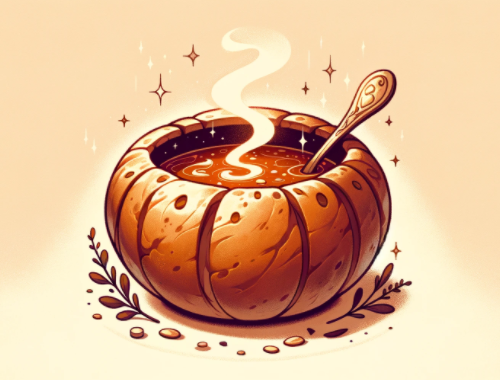
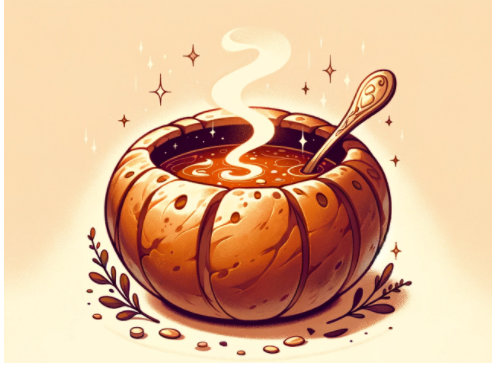
部分资源更新

Changed region(s): [[0.0, 0.0, 1.0, 1.0]]

diff --git a/src/main/java/nearlmod/cards/GumboBreadBowl.java b/src/main/java/nearlmod/cards/GumboBreadBowl.java
@@ -19,7 +19,7 @@ public class GumboBreadBowl extends AbstractNearlCard {
     public static final String NAME = cardStrings.NAME;
     public static final String DESCRIPTION = cardStrings.DESCRIPTION;
     public static final String UPGRADE_DESCRIPTION = cardStrings.UPGRADE_DESCRIPTION;
-    public static final String IMG_PATH = "images/cards/gumbobreadbowl.jpg";
+    public static final String IMG_PATH = "images/cards/gumbobreadbowl.png";
     private static final int COST = 0;
     private static final int BLOCK_AMT = 2;
     private static final int UPGRADE_PLUS_BLOCK = 2;
@@ -41,18 +41,26 @@ public class GumboBreadBowl extends AbstractNearlCard {
         addToBot(new UseLightAction(p));
     }
 
-    @Override
-    public void applyPowers() {
+    private void preUpd() {
         if (!AbstractDungeon.player.stance.ID.equals(DefStance.STANCE_ID)) {
             baseBlock += DefStance.incNum;
             baseBlock += DefStance.defInc;
         }
-        super.applyPowers();
+    }
+
+    private void postUpd() {
         if (!AbstractDungeon.player.stance.ID.equals(DefStance.STANCE_ID)) {
             baseBlock -= DefStance.incNum;
             baseBlock -= DefStance.defInc;
             isBlockModified = (block != baseBlock);
         }
+    }
+
+    @Override
+    public void applyPowers() {
+        preUpd();
+        super.applyPowers();
+        postUpd();
     }
 
     @Override
@@ -62,16 +70,9 @@ public class GumboBreadBowl extends AbstractNearlCard {
 
     @Override
     public void calculateCardDamage(AbstractMonster mo) {
-        if (!AbstractDungeon.player.stance.ID.equals(DefStance.STANCE_ID)) {
-            this.baseBlock += DefStance.incNum;
-            this.baseBlock += DefStance.defInc;
-        }
+        preUpd();
         super.calculateCardDamage(mo);
-        if (!AbstractDungeon.player.stance.ID.equals(DefStance.STANCE_ID)) {
-            this.baseBlock -= DefStance.incNum;
-            this.baseBlock -= DefStance.defInc;
-            isBlockModified = (baseBlock != block);
-        }
+        postUpd();
     }
 
     @Override

diff --git a/src/main/java/nearlmod/cards/KnightCrest.java b/src/main/java/nearlmod/cards/KnightCrest.java
@@ -43,31 +43,32 @@ public class KnightCrest extends AbstractNearlCard {
         addToBot(new UseLightAction(m));
     }
 
-    @Override
-    public void applyPowers() {
+    private void preUpd() {
         if (!AbstractDungeon.player.stance.ID.equals(AtkStance.STANCE_ID)) {
             this.baseDamage += AtkStance.incNum;
             this.baseDamage += AtkStance.atkInc;
         }
-        super.applyPowers();
+    }
+
+    private void postUpd() {
         if (!AbstractDungeon.player.stance.ID.equals(AtkStance.STANCE_ID)) {
             this.baseDamage -= AtkStance.incNum;
             this.baseDamage -= AtkStance.atkInc;
             isDamageModified = (baseDamage != damage);
         }
     }
+
+    @Override
+    public void applyPowers() {
+        preUpd();
+        super.applyPowers();
+        postUpd();
+    }
     @Override
     public void calculateCardDamage(AbstractMonster mo) {
-        if (!AbstractDungeon.player.stance.ID.equals(AtkStance.STANCE_ID)) {
-            this.baseDamage += AtkStance.incNum;
-            this.baseDamage += AtkStance.atkInc;
-        }
+        preUpd();
         super.calculateCardDamage(mo);
-        if (!AbstractDungeon.player.stance.ID.equals(AtkStance.STANCE_ID)) {
-            this.baseDamage -= AtkStance.incNum;
-            this.baseDamage -= AtkStance.atkInc;
-            isDamageModified = (baseDamage != damage);
-        }
+        postUpd();
     }
     @Override
     public AbstractCard makeCopy() {

diff --git a/src/main/java/nearlmod/NLMOD.java b/src/main/java/nearlmod/NLMOD.java
@@ -37,7 +37,6 @@ import org.apache.logging.log4j.LogManager;
 import org.apache.logging.log4j.Logger;
 import nearlmod.cards.*;
 import nearlmod.cards.friendcards.*;
-import nearlmod.cards.special.*;
 import nearlmod.characters.Nearl;
 import java.lang.reflect.Type;
 import java.nio.charset.StandardCharsets;
@@ -262,7 +261,7 @@ public class NLMOD implements EditCardsSubscriber, EditCharactersSubscriber, Edi
         String keywordStrings = Gdx.files.internal("strings/keywords.json").readString(String.valueOf(StandardCharsets.UTF_8));
         Type typeToken = new TypeToken<Map<String, Keyword>>() {}.getType();
 
-        Map<String, Keyword> keywords = (Map)gson.fromJson(keywordStrings, typeToken);
+        Map<String, Keyword> keywords = gson.fromJson(keywordStrings, typeToken);
 
         keywords.forEach((k,v)->{
             logger.info("Adding Keyword - " + v.NAMES[0]);

diff --git a/src/main/java/nearlmod/cards/WayToHome.java b/src/main/java/nearlmod/cards/WayToHome.java
@@ -20,7 +20,7 @@ public class WayToHome extends AbstractNearlCard {
     public static final String NAME = cardStrings.NAME;
     public static final String DESCRIPTION = cardStrings.DESCRIPTION;
     public static final String UPGRADE_DESCRIPTION = cardStrings.UPGRADE_DESCRIPTION;
-    public static final String IMG_PATH = "images/cards/dancetogether.png";
+    public static final String IMG_PATH = "images/cards/waytohome.png";
     private static final int COST = 2;
     private static final int UPGRADE_COST = 1;
     private static final int POWER_GAIN = 5;
